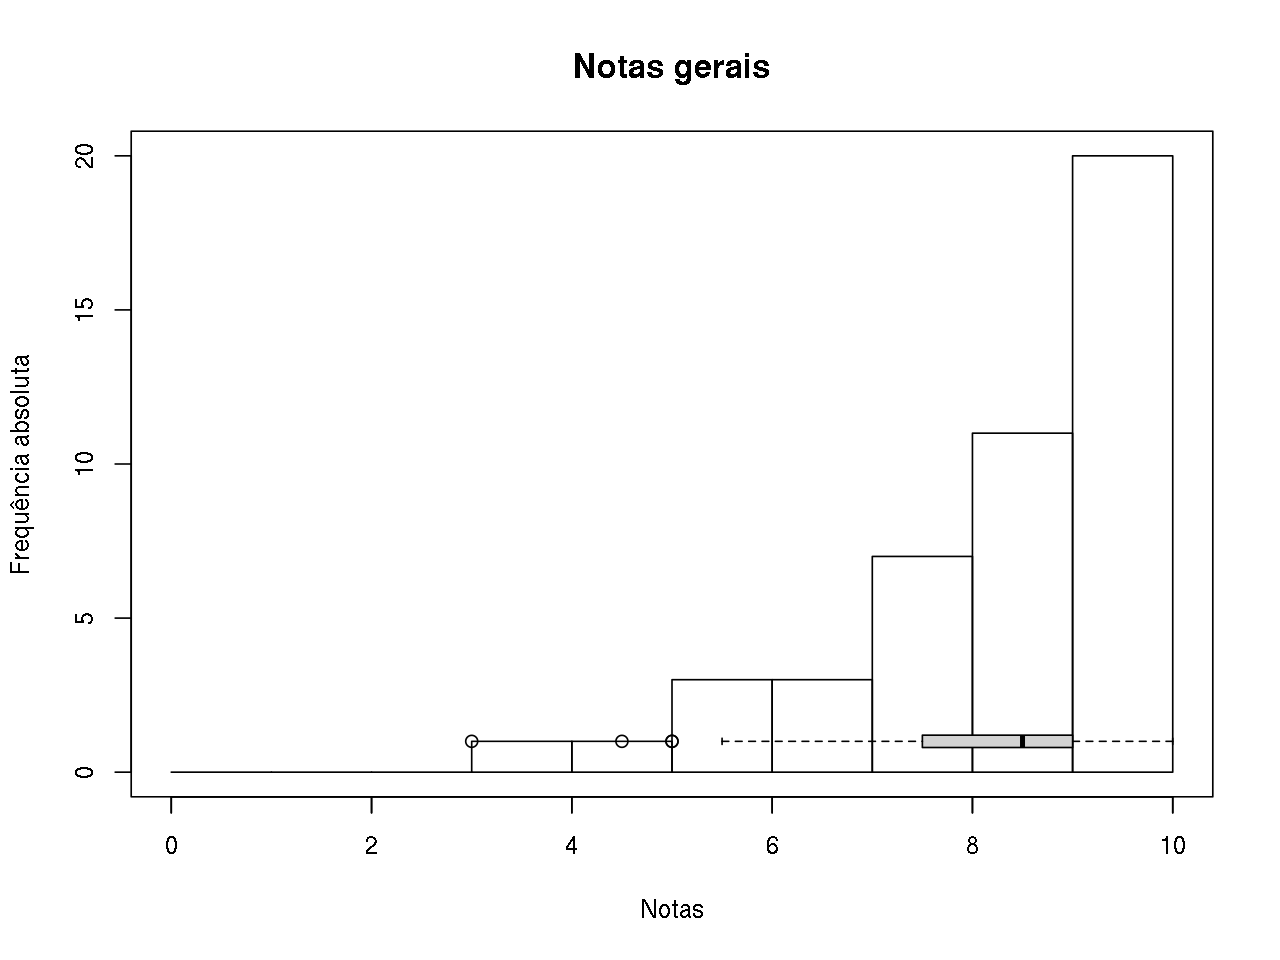
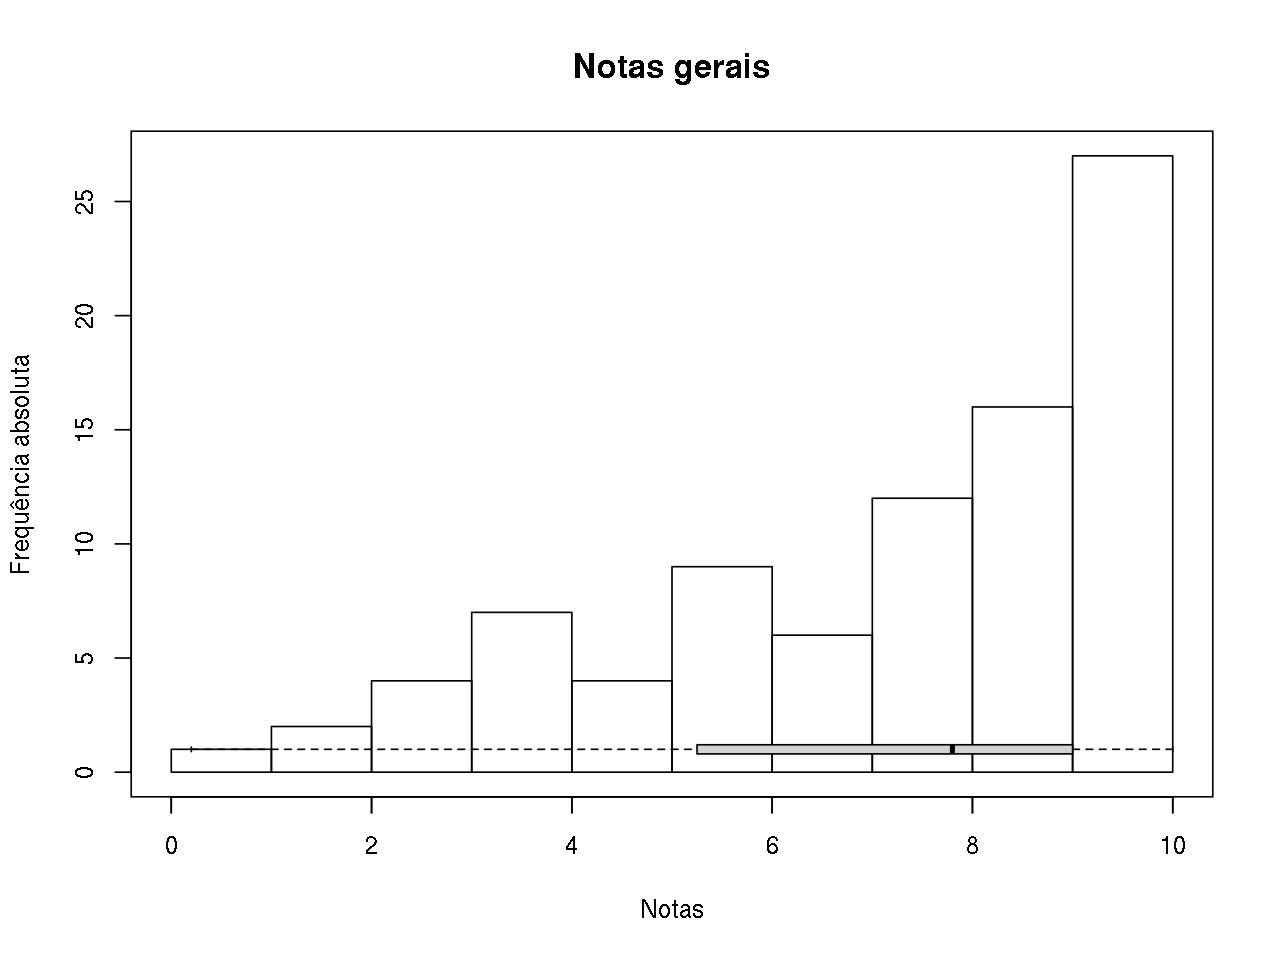
Update class notes with S2

diff --git a/notas.html b/notas.html
@@ -360,247 +360,316 @@ div.tocify {
 </div>
 
 
-<div id="histograma-e-box-plot-geral-por-enquanto-apenas-s1" class="section level2">
-<h2>Histograma e box plot geral (por enquanto apenas S1)</h2>
-<pre class="r"><code>## Grafico geral das medias
+<div id="histograma-e-box-plot-geral" class="section level2">
+<h2>Histograma e box plot geral</h2>
+<pre class="r"><code>## Grafico geral das notas
 breaks &lt;- 0:10
 ## table(cut(notas$S1, breaks = breaks,
 ##           right = FALSE, include.lowest = TRUE))
-hist(notas$S1, breaks = breaks, right = FALSE, include.lowest = TRUE,
+## Junta notas de todas as sabatinas em um único vetor
+notas.all &lt;- do.call(c, notas[, notas.col])
+hist(notas.all, breaks = breaks, right = FALSE, include.lowest = TRUE,
      main = &quot;Notas gerais&quot;, xlab = &quot;Notas&quot;, ylab = &quot;Frequência absoluta&quot;)
-boxplot(notas$S1, horizontal = TRUE, ylim = c(0, 10),
+boxplot(notas.all, horizontal = TRUE, ylim = c(0, 10),
         col = &quot;lightgray&quot;, add = TRUE)</code></pre>
 <p><img src="figures/unnamed-chunk-2-1.png" title="" alt="" width="640" style="display: block; margin: auto;" /></p>
 <p>Resumo dos cinco números, média, desvio-padrão, e número de provas não realizadas (NA):</p>
-<pre class="r"><code>statm &lt;- c(fivenum(notas$S1),
-           mean(notas$S1, na.rm = TRUE),
-           sd(notas$S1, na.rm = TRUE),
-           sum(is.na(notas$S1)))
-names(statm) &lt;- c(&quot;Min&quot;, &quot;Q1&quot;, &quot;Q2&quot;, &quot;Q3&quot;, &quot;Max&quot;, &quot;Média&quot;, &quot;s&quot;, &quot;NAs&quot;)
-round(statm, 2)</code></pre>
+<pre class="r"><code>statm &lt;- function(x){
+    res &lt;- c(fivenum(x),
+             mean(x, na.rm = TRUE),
+             sd(x, na.rm = TRUE),
+             sum(is.na(x)))
+    names(res) &lt;- c(&quot;Min&quot;, &quot;Q1&quot;, &quot;Q2&quot;, &quot;Q3&quot;, &quot;Max&quot;, &quot;Média&quot;, &quot;s&quot;, &quot;NAs&quot;)
+    return(res)
+}
+round(statm(notas.all), 2)</code></pre>
 <pre><code>  Min    Q1    Q2    Q3   Max Média     s   NAs 
- 3.00  7.50  8.50  9.00 10.00  8.07  1.62  5.00 </code></pre>
+ 0.20  5.25  7.80  9.00 10.00  6.98  2.51 14.00 </code></pre>
 </div>
-<div id="box-plot-da-s1" class="section level2">
-<h2>Box plot da S1</h2>
+<div id="resumos-por-prova" class="section level2">
+<h2>Resumos por prova</h2>
+<p>Box plot de cada prova</p>
 <pre class="r"><code>## Boxplots comparando as notas entre sabatinas
-boxplot(notas$S1, ylim = c(0, 10), names = &quot;S1&quot;, ylab = &quot;Notas&quot;)</code></pre>
+boxplot(notas[, notas.col], ylim = c(0, 10), ylab = &quot;Notas&quot;)</code></pre>
 <p><img src="figures/unnamed-chunk-4-1.png" title="" alt="" width="640" style="display: block; margin: auto;" /></p>
+<p>Resumo dos cinco números, média, desvio-padrão, e número de provas não realizadas (NA):</p>
+<pre class="r"><code>round(apply(notas[, notas.col], 2, statm), 2)</code></pre>
+<pre><code>         S1    S2
+Min    3.00  0.20
+Q1     7.50  3.50
+Q2     8.50  5.50
+Q3     9.00  8.00
+Max   10.00 10.00
+Média  8.07  5.78
+s      1.62  2.78
+NAs    5.00  9.00</code></pre>
 </div>
 <div id="notas-individuais" class="section level2">
-<h2>Notas indivíduais</h2>
+<h2>Notas individuais</h2>
 <pre class="r"><code>kable(notas, align = c(&quot;c&quot;, &quot;c&quot;))</code></pre>
 <table>
 <thead>
 <tr class="header">
 <th align="center">Matricula</th>
 <th align="center">S1</th>
+<th align="center">S2</th>
 </tr>
 </thead>
 <tbody>
 <tr class="odd">
 <td align="center">20081784</td>
 <td align="center">6.0</td>
+<td align="center">NA</td>
 </tr>
 <tr class="even">
 <td align="center">20095802</td>
 <td align="center">7.5</td>
+<td align="center">5.0</td>
 </tr>
 <tr class="odd">
 <td align="center">20102715</td>
 <td align="center">7.5</td>
+<td align="center">NA</td>
 </tr>
 <tr class="even">
 <td align="center">20104471</td>
+<td align="center">NA</td>
 <td align="center">NA</td>
 </tr>
 <tr class="odd">
 <td align="center">20110014</td>
 <td align="center">8.5</td>
+<td align="center">3.5</td>
 </tr>
 <tr class="even">
 <td align="center">20111904</td>
 <td align="center">8.0</td>
+<td align="center">3.7</td>
 </tr>
 <tr class="odd">
 <td align="center">20112119</td>
 <td align="center">9.5</td>
+<td align="center">9.0</td>
 </tr>
 <tr class="even">
 <td align="center">20113413</td>
 <td align="center">9.0</td>
+<td align="center">8.0</td>
 </tr>
 <tr class="odd">
 <td align="center">20113699</td>
+<td align="center">10.0</td>
 <td align="center">10.0</td>
 </tr>
 <tr class="even">
 <td align="center">20120643</td>
 <td align="center">4.5</td>
+<td align="center">0.2</td>
 </tr>
 <tr class="odd">
 <td align="center">20122965</td>
 <td align="center">8.5</td>
+<td align="center">9.8</td>
 </tr>
 <tr class="even">
 <td align="center">20127158</td>
 <td align="center">NA</td>
+<td align="center">1.0</td>
 </tr>
 <tr class="odd">
 <td align="center">20127164</td>
 <td align="center">7.0</td>
+<td align="center">2.5</td>
 </tr>
 <tr class="even">
 <td align="center">20127187</td>
 <td align="center">8.5</td>
+<td align="center">7.8</td>
 </tr>
 <tr class="odd">
 <td align="center">20127188</td>
 <td align="center">10.0</td>
+<td align="center">8.7</td>
 </tr>
 <tr class="even">
 <td align="center">20127193</td>
 <td align="center">7.0</td>
+<td align="center">3.5</td>
 </tr>
 <tr class="odd">
 <td align="center">20127195</td>
 <td align="center">3.0</td>
+<td align="center">3.2</td>
 </tr>
 <tr class="even">
 <td align="center">20127199</td>
 <td align="center">7.5</td>
+<td align="center">5.5</td>
 </tr>
 <tr class="odd">
 <td align="center">20127335</td>
 <td align="center">9.0</td>
+<td align="center">NA</td>
 </tr>
 <tr class="even">
 <td align="center">20130130</td>
 <td align="center">9.5</td>
+<td align="center">9.8</td>
 </tr>
 <tr class="odd">
 <td align="center">20130438</td>
 <td align="center">9.0</td>
+<td align="center">6.5</td>
 </tr>
 <tr class="even">
 <td align="center">20130617</td>
 <td align="center">9.0</td>
+<td align="center">5.5</td>
 </tr>
 <tr class="odd">
 <td align="center">20130702</td>
 <td align="center">9.0</td>
+<td align="center">2.2</td>
 </tr>
 <tr class="even">
 <td align="center">20130845</td>
 <td align="center">5.0</td>
+<td align="center">2.0</td>
 </tr>
 <tr class="odd">
 <td align="center">20131405</td>
 <td align="center">8.8</td>
+<td align="center">7.5</td>
 </tr>
 <tr class="even">
 <td align="center">20131728</td>
 <td align="center">9.0</td>
+<td align="center">3.7</td>
 </tr>
 <tr class="odd">
 <td align="center">20132175</td>
 <td align="center">9.0</td>
+<td align="center">7.5</td>
 </tr>
 <tr class="even">
 <td align="center">20132334</td>
 <td align="center">5.0</td>
+<td align="center">1.5</td>
 </tr>
 <tr class="odd">
 <td align="center">20132674</td>
+<td align="center">NA</td>
 <td align="center">NA</td>
 </tr>
 <tr class="even">
 <td align="center">20133917</td>
 <td align="center">8.5</td>
+<td align="center">5.5</td>
 </tr>
 <tr class="odd">
 <td align="center">20134343</td>
 <td align="center">9.5</td>
+<td align="center">2.0</td>
 </tr>
 <tr class="even">
 <td align="center">20134376</td>
+<td align="center">9.0</td>
 <td align="center">9.0</td>
 </tr>
 <tr class="odd">
 <td align="center">20134627</td>
 <td align="center">8.5</td>
+<td align="center">4.0</td>
 </tr>
 <tr class="even">
 <td align="center">20134720</td>
 <td align="center">6.0</td>
+<td align="center">7.5</td>
 </tr>
 <tr class="odd">
 <td align="center">20134749</td>
 <td align="center">9.5</td>
+<td align="center">9.3</td>
 </tr>
 <tr class="even">
 <td align="center">20135523</td>
 <td align="center">9.5</td>
+<td align="center">10.0</td>
 </tr>
 <tr class="odd">
 <td align="center">20135660</td>
 <td align="center">8.5</td>
+<td align="center">6.5</td>
 </tr>
 <tr class="even">
 <td align="center">20135661</td>
 <td align="center">9.0</td>
+<td align="center">3.0</td>
 </tr>
 <tr class="odd">
 <td align="center">20135663</td>
 <td align="center">9.5</td>
+<td align="center">5.0</td>
 </tr>
 <tr class="even">
 <td align="center">20135762</td>
 <td align="center">9.0</td>
+<td align="center">8.3</td>
 </tr>
 <tr class="odd">
 <td align="center">20136482</td>
 <td align="center">8.5</td>
+<td align="center">NA</td>
 </tr>
 <tr class="even">
 <td align="center">20136617</td>
 <td align="center">5.5</td>
+<td align="center">7.8</td>
 </tr>
 <tr class="odd">
 <td align="center">20137249</td>
 <td align="center">8.5</td>
+<td align="center">4.5</td>
 </tr>
 <tr class="even">
 <td align="center">20137377</td>
 <td align="center">9.5</td>
+<td align="center">8.5</td>
 </tr>
 <tr class="odd">
 <td align="center">20137518</td>
+<td align="center">NA</td>
 <td align="center">NA</td>
 </tr>
 <tr class="even">
 <td align="center">20140179</td>
 <td align="center">NA</td>
+<td align="center">NA</td>
 </tr>
 <tr class="odd">
 <td align="center">20140223</td>
 <td align="center">6.0</td>
+<td align="center">4.5</td>
 </tr>
 <tr class="even">
 <td align="center">20142261</td>
 <td align="center">7.0</td>
+<td align="center">5.5</td>
 </tr>
 <tr class="odd">
 <td align="center">20142768</td>
 <td align="center">8.0</td>
+<td align="center">6.4</td>
 </tr>
 <tr class="even">
 <td align="center">20143033</td>
 <td align="center">7.5</td>
+<td align="center">NA</td>
 </tr>
 <tr class="odd">
 <td align="center">20160023</td>
 <td align="center">10.0</td>
+<td align="center">8.0</td>
 </tr>
 </tbody>
 </table>
